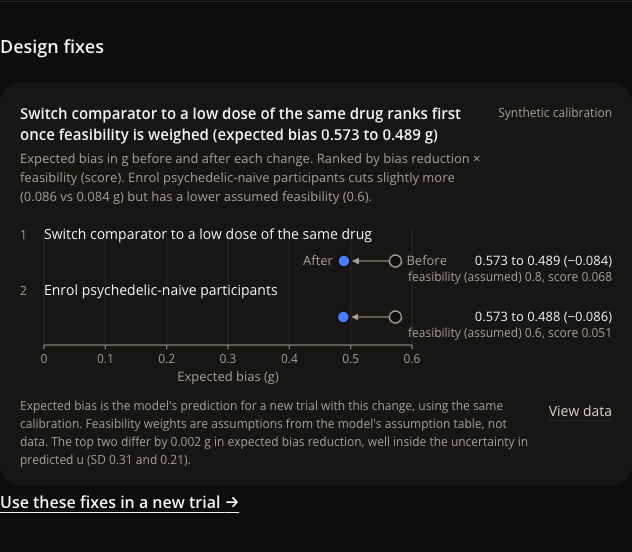
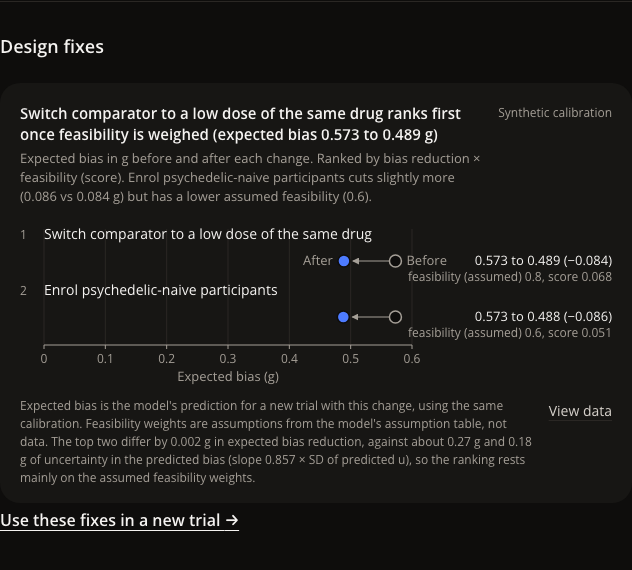
Studio design fixes: compare the reduction gap with bias-scale uncertainty (slope × SD of u)

diff --git a/frontend/src/components/studio/FixesChart.tsx b/frontend/src/components/studio/FixesChart.tsx
@@ -31,15 +31,21 @@ export function fixesSubtitle(fx: Fix[]): string {
 }
 
 /** Footnote: feasibility is an assumption, and how the gap between the top two compares with the u uncertainty. */
-export function fixesFootnote(fx: Fix[]): string {
+export function fixesFootnote(fx: Fix[], slope: number | null): string {
   const parts = ["Expected bias is the model's prediction for a new trial with this change, using the same calibration.",
     "Feasibility weights are assumptions from the model's assumption table, not data."];
   const [a, b] = fx;
   if (a && b && has(a.reduction) && has(b.reduction)) {
     const gap = Math.abs(a.reduction - b.reduction);
-    const sds = [a.uSd, b.uSd].filter(has);
-    const inside = sds.length > 0 && gap < Math.min(...sds);
-    parts.push(`The top two differ by ${fmt(gap, 3)} g in expected bias reduction${sds.length ? `, ${inside ? "well inside" : "compared with"} the uncertainty in predicted u (SD ${sds.map((v) => fmt(v)).join(" and ")})` : ""}.`);
+    // Put the SD of predicted u on the bias scale (g) with the fitted slope: bias = slope × u, so SD(bias) ≈ |slope| × SD(u).
+    const sds = slope === null ? [] : [a.uSd, b.uSd].filter(has).map((v) => Math.abs(slope) * v);
+    if (sds.length) {
+      const words = sds.map((v) => `${fmt(v)} g`).join(" and ");
+      const small = gap < Math.min(...sds);
+      parts.push(`The top two differ by ${fmt(gap, 3)} g in expected bias reduction, against about ${words} of uncertainty in the predicted bias (slope ${fmt(slope, 3)} × SD of predicted u)${small ? ", so the ranking rests mainly on the assumed feasibility weights" : ""}.`);
+    } else {
+      parts.push(`The top two differ by ${fmt(gap, 3)} g in expected bias reduction.`);
+    }
   }
   return parts.join(" ");
 }

diff --git a/frontend/src/components/studio/ReportView.tsx b/frontend/src/components/studio/ReportView.tsx
@@ -191,7 +191,7 @@ export function ReportView({ report, input, onUseFixes }: {
           ariaLabel={fixes.length ? fixesAria(fixes) : "No design changes proposed"}
           dataTable={fixes.length ? fixesTable(fixes) : undefined}
           empty={fixes.length ? null : { title: "No design changes proposed" }}
-          footnotes={fixes.length ? fixesFootnote(fixes) : undefined}
+          footnotes={fixes.length ? fixesFootnote(fixes, fit.slope) : undefined}
         >
           <FixesChart fx={fixes} />
         </ChartFrame>
